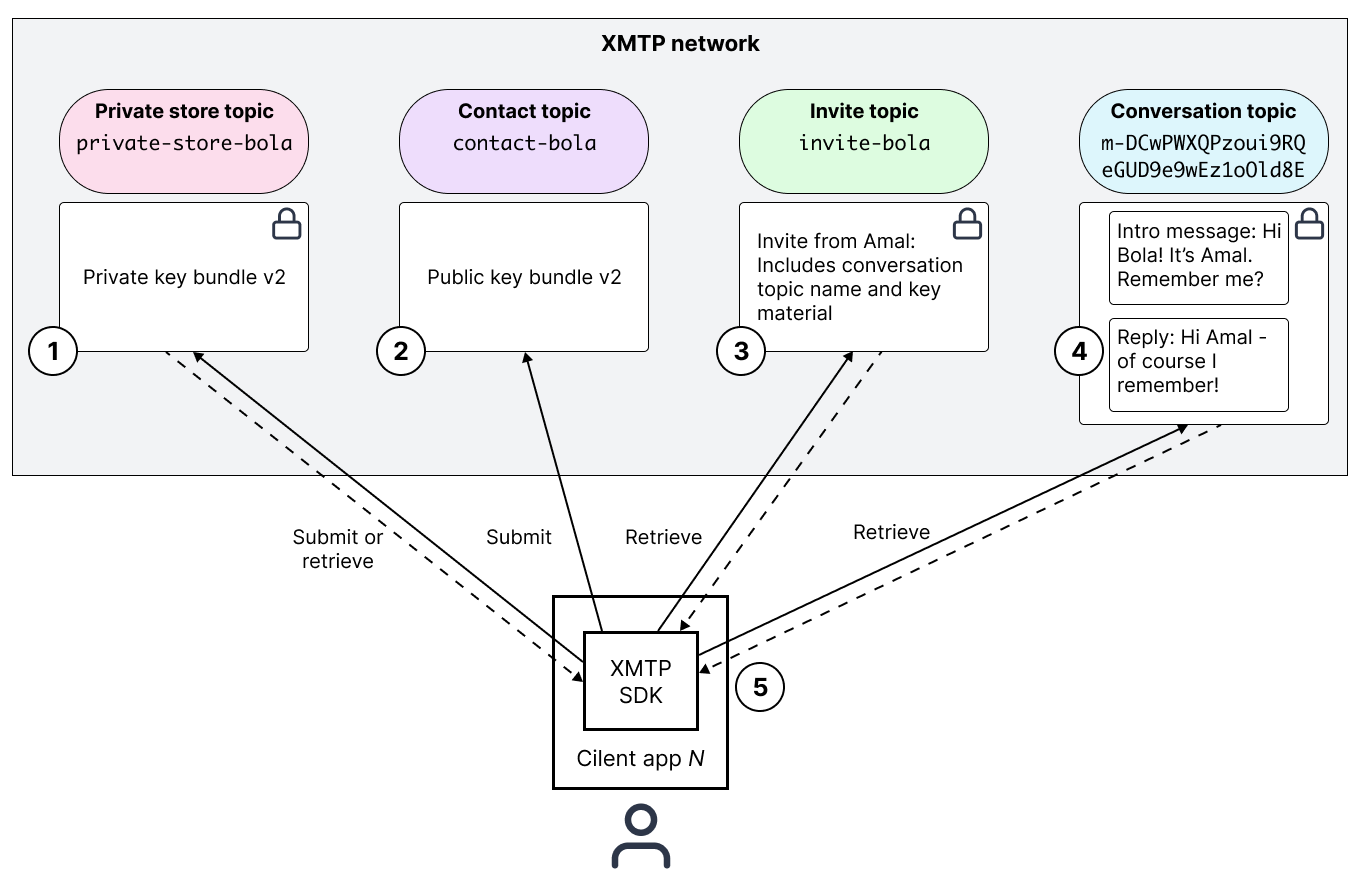
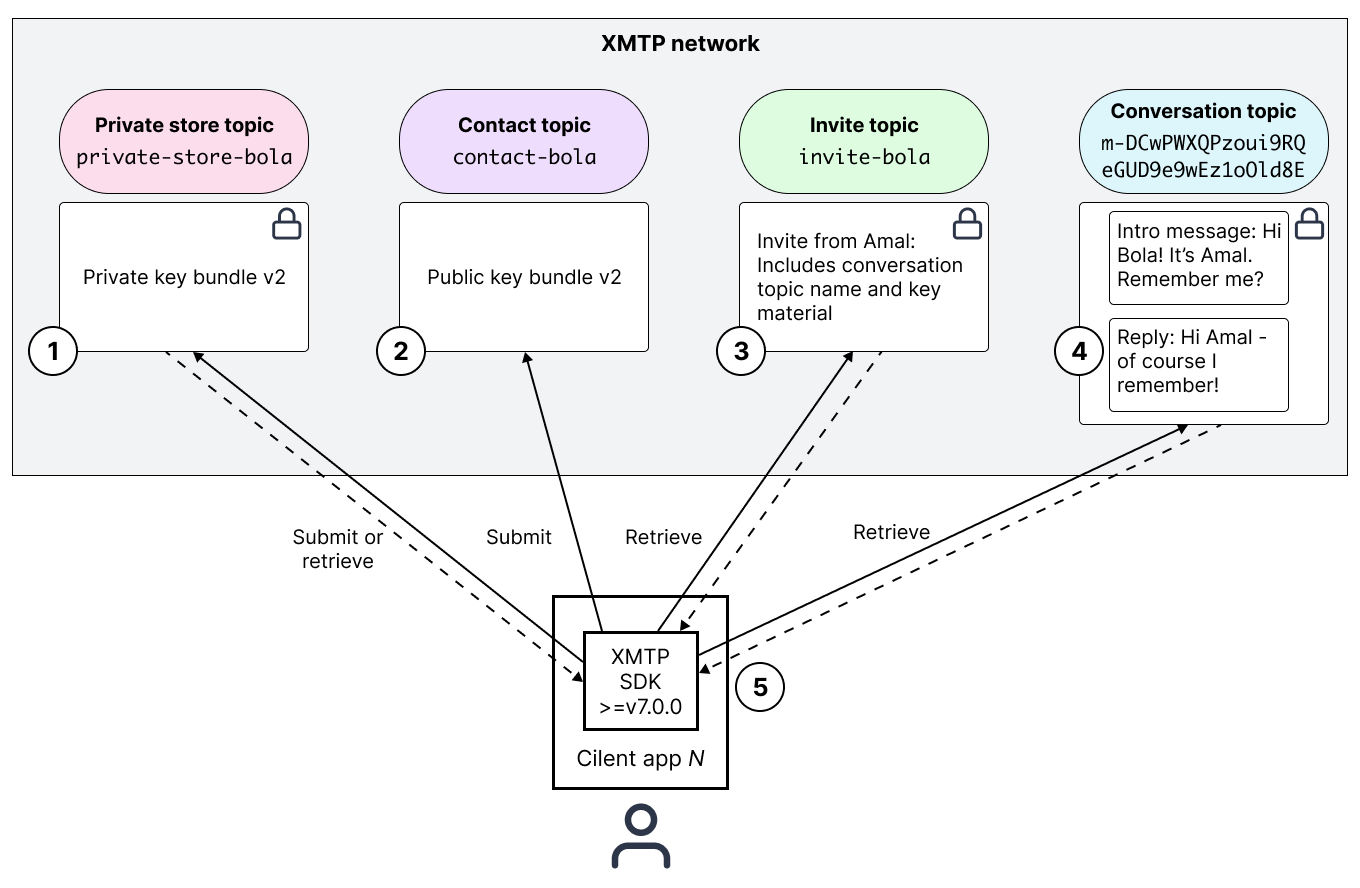
testing out revised structure

diff --git a/docs/dev-concepts/architectural-overview.md b/docs/dev-concepts/architectural-overview.md
@@ -1,6 +1,7 @@
 ---
 sidebar_label: Architectural overview
 sidebar_position: 2
+toc_max_heading_level: 4
 ---
 
 # Architectural overview of XMTP
@@ -51,7 +52,7 @@ Every XMTP node:
 - Relays messages and key bundles to other nodes
 - Stores and advertises public key bundles for XMTP identities
 - Stores encrypted private key bundles for XMTP identities
-- Stores invites and messages sent by XMTP identities
+- Stores invites, conversations, and messages created by XMTP identities
 - Has a private load balancer and connects to a single public load balancer
 
 Here’s a high-level view of how client apps built with XMTP submit and retrieve messages using the XMTP network:
@@ -71,7 +72,7 @@ For a period of time, the XMTP network will support both V1 and V2 topics and fl
 
 <!--Correct? Is this the min ver needed to use V2. Provide link to release.-->
 
-#### XMTP V1 topics and flow
+#### V1 topics and flow
 
 With XMTP V1, the network uses the following topics:
 
@@ -100,7 +101,7 @@ In this flow, the client app:
 For more details, see [Message encryption and decryption](#message-encryption-and-decryption).
 
 
-#### XMTP V2 topics and flow
+#### V2 topics and flow
 
 With XMTP V2, the network uses the following topics:
 
@@ -110,8 +111,11 @@ With XMTP V2, the network uses the following topics:
 - Contact topic  
   The XMTP network uses a contact topic to store a user’s public key bundle. The network advertises this public key bundle to enable other users to contact the user.
 - Invite topic  
-  XMTP V2 uses an invite topic instead of a V1 intro topic. Instead of storing the first message sent between two participants, the invite topic stores a conversation topic name and key material and no message content. The conversation topic name tells the client app which conversation topic to send messages to. The key material is what the client app uses for message encryption.
-- Conversation topic  
+  XMTP V2 uses an invite topic instead of an intro topic, as in V1. The invite topic stores a conversation topic name and key material and no message content.
+  - The invite topic is sent to both the invitee and sender.
+  - The conversation topic name tells the client app which conversation topic to send messages to.
+  - The key material is what the client app uses for message encryption.
+- Conversation topic
   The XMTP network uses a conversation topic to store messages sent between two participants. A conversation topic is shared by the two participants. Here are some key differences between conversations topics with XMTP V1 and V2. With XMTP V2:
   - Two participants can have multiple ongoing conversations. With XMTP V1, all messages between two participants are stored in a single conversation topic.
   - Conversation topics support `conversationId`s and other metadata. You can use these IDs and metadata to filter and organize conversations, which can be more manageable than filtering individual messages in a single large conversation topic.
@@ -123,7 +127,7 @@ This diagram illustrates how these XMTP V2 network topics are created and work t
 
 In this flow, the client app:
 
-<!--do we need to say morea bout invite encryption?-->
+<!--do we need to say more about invite encryption?-->
 
 1. Retrieves Bola’s private key bundle from the network. If one doesn’t exist, it creates it and stores it encrypted on the network in a private store topic, or locally.
 2. If one doesn't already exist, stores Bola’s public key bundle on the network in a contact topic, so others can message Bola.
@@ -132,9 +136,9 @@ In this flow, the client app:
 5. Uses the shared secret from the key material to create an encryption key to decrypt Amal’s message and present it to Bola.
 
 
-#### How client apps determine whether to use the V1 or V2 message relay flow
+#### Rules for using V1 or V2 topics and flows
 
-Here's a diagram that shows how a client app determines whether to use XMTP V1 or V2 topics and flows.
+Here's a diagram that shows how a client app supporting XMTP V2 determines whether it must use V2 or V1 topics and flows to send a message:
 
 ![Diagram showing a client app interacting with topics in the XMTP V2 network with the goal of delivering messages to a user named Bola.](./img/v1-or-v2-flow.png) <!--source file: https://www.figma.com/file/1jasKMIn5sAL4855eTwgIm/xmtp-architectural-overview?node-id=738%3A2120-->
 
@@ -145,75 +149,13 @@ Next, let’s look at the client layer and how apps connect to the XMTP network 
 
 The client layer consists of XMTP user clients embedded in client apps built with the XMTP SDK. The client layer’s main responsibilities are to:
 
-- Create blockchain account-based XMTP identities, including public and private key bundles, and submit them to the network for storage
-- Encrypt and decrypt messages
+- Create blockchain account-based XMTP identities, including public and private key bundles, and submit them to the network for storage  
+  To learn more, see [Participant authentication](#).
+- Encrypt and decrypt invites and messages  
+  To learn more, see [Message encryption](#).
 - Submit and retrieve messages from the XMTP network
 - Encode and decode message content types
   To learn more, see [Content types](/docs/dev-concepts/content-types).
-
-
-### Message encryption and decryption
-
-All XMTP messages are encrypted. This section describes XMTP V1 and V2 message encryption flows.
-
-
-#### XMTP V1 message encryption
-
-With XMTP V1, a client app encrypts and decrypts messages using the following artifacts:
-
-- Public key bundle (per user)
-- Private key bundle (per user)
-- Shared secret (per sender and recipient pair)
-- Encryption key (per sender and recipient pair)
-
-Here’s a high-level overview of the message encryption and decryption flow for XMTP V1:
-
-![Animation showing the flow of a user sending a message to another user, including details of how the sender's client app encrypts and submits the message to the XMTP network, how an XMTP node relays the message to other nodes, and how the recipient's client app retrieves the message from the network, decrypts it, and delivers it to the recipient.](./img/message-encrypt-decrypt.gif) <!--source file: https://www.figma.com/file/1jasKMIn5sAL4855eTwgIm/xmtp-architectural-overview?node-id=324%3A1120-->
-
-The following sequence diagram dives a bit deeper into the flow and illustrates how a client app creates and uses these artifacts to encrypt a message:
-
-![Diagram showing the sequence of steps a client app takes to use a private key, public key, shared secret, and encryption key to encrypt a message before submitting it to the XMTP network.](./img/encrypt-message.png) <!--source file: https://lucid.app/lucidchart/d2985646-969e-4625-82f0-cb38853033c5/edit?view_items=jOX3cckT1jt4&invitationId=inv_2faa4c23-7fdb-40d8-9b78-e9c4557b712d-->
-
-Likewise, this sequence diagram illustrates the message decryption process:
-
-![Diagram showing the sequence of steps a client app takes to retrieve a message from the XMTP network, use a private key, public key, shared secret, and encryption key to decrypt the message, and then deliver the message to a user.](./img/decrypt-message.png) <!--source file: https://lucid.app/lucidchart/d2985646-969e-4625-82f0-cb38853033c5/edit?view_items=jOX3cckT1jt4&invitationId=inv_2faa4c23-7fdb-40d8-9b78-e9c4557b712d-->
-
-
-#### XMTP V2 invite encryption
-
-With XMTP V2, a client app encrypts and decrypts invites using the following artifacts:
-
-- Public key bundle (per user)
-- Private key bundle (per user)
-- Shared secret (per sender and recipient pair)
-- Encryption key (per sender and recipient pair)
-
-The following sequence diagram dives a bit deeper into the flow and illustrates how a client app creates and uses these artifacts to encrypt an invite:
-
-![Diagram showing the sequence of steps a client app takes to use a private key, public key, shared secret, and encryption key to encrypt an invite before submitting it to the XMTP network.](./img/invite-encrypt-v2.png) <!--source file: https://lucid.app/lucidchart/e2f80322-b2c9-44c1-8f20-421628e4f9ed/edit?viewport_loc=-389%2C-1224%2C3032%2C1592%2C0_0&invitationId=inv_4013c892-b596-4097-bcfd-a50a233de812-->
-
-Likewise, this sequence diagram illustrates the invite decryption process:
-
-![Diagram showing the sequence of steps a client app takes to retrieve a message from the XMTP network, use a private key, public key, shared secret, and encryption key to decrypt the invite.](./img/invite-decrypt-v2.png) <!--source file: https://lucid.app/lucidchart/e2f80322-b2c9-44c1-8f20-421628e4f9ed/edit?viewport_loc=-389%2C-1224%2C3032%2C1592%2C0_0&invitationId=inv_4013c892-b596-4097-bcfd-a50a233de812-->
-
-
-#### XMTP V2 message encryption
-
-With XMTP V2, a client app encrypts and decrypts messages using the following artifacts:
-
-- Shared secret (per invitees to a conversation)
-- Encryption key (per invitees to a conversation)
-<!--not sure about the second bullet. I know that every invitee to a conversation has the same shared secret - I think this means that each of them will generate the same encryption key through HKDF as well?-->
-
-On a related note, the encrypted message is signed by the sender using their private key. Upon decryption but before presentation to the recipient, the client app uses the sender's public key from the message header to verify the sender of the message.
-
-The following sequence diagram dives a bit deeper into the flow and illustrates how a client app creates and uses these artifacts to encrypt and sign a message:
-
-![Diagram showing the sequence of steps a client app takes to use a shared secret and encryption key to encrypt a message before submitting it to the XMTP network.](./img/invite-encrypt-v2.png) <!--source file: https://lucid.app/lucidchart/9ec2b0e2-df13-4d06-82c7-59068059b8a7/edit?viewport_loc=-1118%2C-613%2C3110%2C1633%2C0_0&invitationId=inv_857afa87-d52e-4236-8a9f-c5818c65df04-->
-
-Likewise, this sequence diagram illustrates the message decryption and sender verification process:
-
-![Diagram showing the sequence of steps a client app takes to retrieve a message from the XMTP network, use a private key, public key, shared secret, and encryption key to decrypt the invite.](./img/invite-decrypt-v2.png) <!--source file: https://lucid.app/lucidchart/9ec2b0e2-df13-4d06-82c7-59068059b8a7/edit?viewport_loc=-1118%2C-613%2C3110%2C1633%2C0_0&invitationId=inv_857afa87-d52e-4236-8a9f-c5818c65df04-->
 
 
 ## App layer

diff --git a/docs/dev-concepts/security.md b/docs/dev-concepts/security.md
@@ -5,6 +5,8 @@ sidebar_position: 5
 
 # Participant authentication and message encryption with XMTP
 
+## Participant authentication
+
 The XMTP SDK enables client apps to establish secure, unfalsifiable relationships between XMTP identities in which only the sender and recipient can decrypt messages sent between them. The protocol design also accommodates asynchronous offline communication and secure storage of messages.
 
 These relationships between XMTP identities are established using a set of keys. When a user connects their blockchain account to their client app, their wallet app signs with the account's public and private key. This enables the XMTP SDK to generate the following keys:
@@ -25,7 +27,76 @@ The client app publishes the user's `IdentityPublicKey` and `PreKeys` to the XMT
 
 The `IdentityPrivateKey` (and a copy of the other keys, for good measure) are encrypted and stored locally by the client app or on the XMTP network. Only client apps authorized by the user can access these encrypted keys. By design, XMTP and the XMTP network cannot access these encrypted keys.
 
-To learn more, see [Message encryption and decryption](architectural-overview#message-encryption-and-decryption).
+
+## Message encryption
+
+All XMTP messages are encrypted. This section describes XMTP V1 and V2 message encryption flows.
+
+:::info
+
+For a period of time, the XMTP network will support both V1 and V2 message encryption flows to give developers time to upgrade their client apps to use XMTP client SDK for JavaScript (xmtp-js) >=v7.0.0, which will provide their apps with V2 functionality. After support for V1 topics and flows is deprecated, client apps that have not upgraded to >=v7.0.0 may be unable to communicate with the XMTP network.
+
+:::
+
+
+### XMTP V1 message encryption
+
+With XMTP V1, a client app encrypts and decrypts messages using the following artifacts:
+
+- Public key bundle (per user)
+- Private key bundle (per user)
+- Shared secret (per sender and recipient pair)
+- Encryption key (per sender and recipient pair)
+
+Here’s a high-level overview of the message encryption and decryption flow for XMTP V1:
+
+![Animation showing the flow of a user sending a message to another user, including details of how the sender's client app encrypts and submits the message to the XMTP network, how an XMTP node relays the message to other nodes, and how the recipient's client app retrieves the message from the network, decrypts it, and delivers it to the recipient.](./img/message-encrypt-decrypt.gif) <!--source file: https://www.figma.com/file/1jasKMIn5sAL4855eTwgIm/xmtp-architectural-overview?node-id=324%3A1120-->
+
+The following sequence diagram dives a bit deeper into the flow and illustrates how a client app creates and uses these artifacts to encrypt a message:
+
+![Diagram showing the sequence of steps a client app takes to use a private key, public key, shared secret, and encryption key to encrypt a message before submitting it to the XMTP network.](./img/encrypt-message.png) <!--source file: https://lucid.app/lucidchart/d2985646-969e-4625-82f0-cb38853033c5/edit?view_items=jOX3cckT1jt4&invitationId=inv_2faa4c23-7fdb-40d8-9b78-e9c4557b712d-->
+
+Likewise, this sequence diagram illustrates the message decryption process:
+
+![Diagram showing the sequence of steps a client app takes to retrieve a message from the XMTP network, use a private key, public key, shared secret, and encryption key to decrypt the message, and then deliver the message to a user.](./img/decrypt-message.png) <!--source file: https://lucid.app/lucidchart/d2985646-969e-4625-82f0-cb38853033c5/edit?view_items=jOX3cckT1jt4&invitationId=inv_2faa4c23-7fdb-40d8-9b78-e9c4557b712d-->
+
+
+### XMTP V2 invite encryption
+
+With XMTP V2, a client app encrypts and decrypts invites using the following artifacts:
+
+- Public key bundle (per user)
+- Private key bundle (per user)
+- Shared secret (per sender and recipient pair)
+- Encryption key (per sender and recipient pair)
+
+The following sequence diagram dives a bit deeper into the flow and illustrates how a client app creates and uses these artifacts to encrypt an invite:
+
+![Diagram showing the sequence of steps a client app takes to use a private key, public key, shared secret, and encryption key to encrypt an invite before submitting it to the XMTP network.](./img/invite-encrypt-v2.png) <!--source file: https://lucid.app/lucidchart/e2f80322-b2c9-44c1-8f20-421628e4f9ed/edit?viewport_loc=-389%2C-1224%2C3032%2C1592%2C0_0&invitationId=inv_4013c892-b596-4097-bcfd-a50a233de812-->
+
+Likewise, this sequence diagram illustrates the invite decryption process:
+
+![Diagram showing the sequence of steps a client app takes to retrieve a message from the XMTP network, use a private key, public key, shared secret, and encryption key to decrypt the invite.](./img/invite-decrypt-v2.png) <!--source file: https://lucid.app/lucidchart/e2f80322-b2c9-44c1-8f20-421628e4f9ed/edit?viewport_loc=-389%2C-1224%2C3032%2C1592%2C0_0&invitationId=inv_4013c892-b596-4097-bcfd-a50a233de812-->
+
+
+### XMTP V2 message encryption
+
+With XMTP V2, a client app encrypts and decrypts messages using the following artifacts:
+
+- Shared secret (per invitees to a conversation)
+- Encryption key (per invitees to a conversation)
+<!--not sure about the second bullet. I know that every invitee to a conversation has the same shared secret - I think this means that each of them will generate the same encryption key through HKDF as well?-->
+
+On a related note, the encrypted message is signed by the sender using their private key. Upon decryption but before presentation to the recipient, the client app uses the sender's public key from the message header to verify the sender of the message.
+
+The following sequence diagram dives a bit deeper into the flow and illustrates how a client app creates and uses these artifacts to encrypt and sign a message:
+
+![Diagram showing the sequence of steps a client app takes to use a shared secret and encryption key to encrypt a message before submitting it to the XMTP network.](./img/invite-encrypt-v2.png) <!--source file: https://lucid.app/lucidchart/9ec2b0e2-df13-4d06-82c7-59068059b8a7/edit?viewport_loc=-1118%2C-613%2C3110%2C1633%2C0_0&invitationId=inv_857afa87-d52e-4236-8a9f-c5818c65df04-->
+
+Likewise, this sequence diagram illustrates the message decryption and sender verification process:
+
+![Diagram showing the sequence of steps a client app takes to retrieve a message from the XMTP network, use a private key, public key, shared secret, and encryption key to decrypt the invite.](./img/invite-decrypt-v2.png) <!--source file: https://lucid.app/lucidchart/9ec2b0e2-df13-4d06-82c7-59068059b8a7/edit?viewport_loc=-1118%2C-613%2C3110%2C1633%2C0_0&invitationId=inv_857afa87-d52e-4236-8a9f-c5818c65df04-->
+
 
 ## Algorithms in use
 
